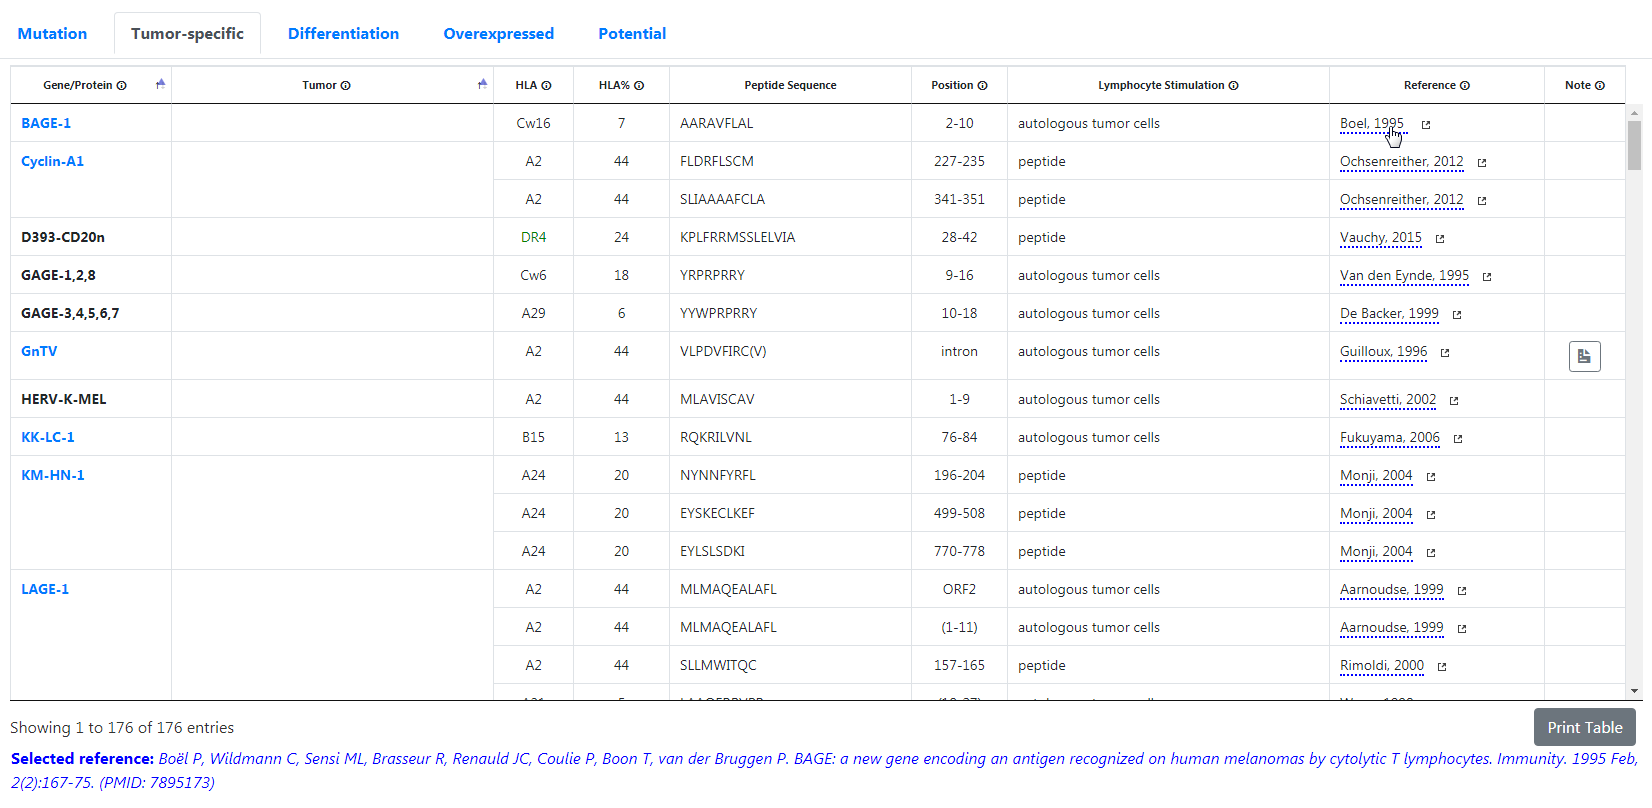
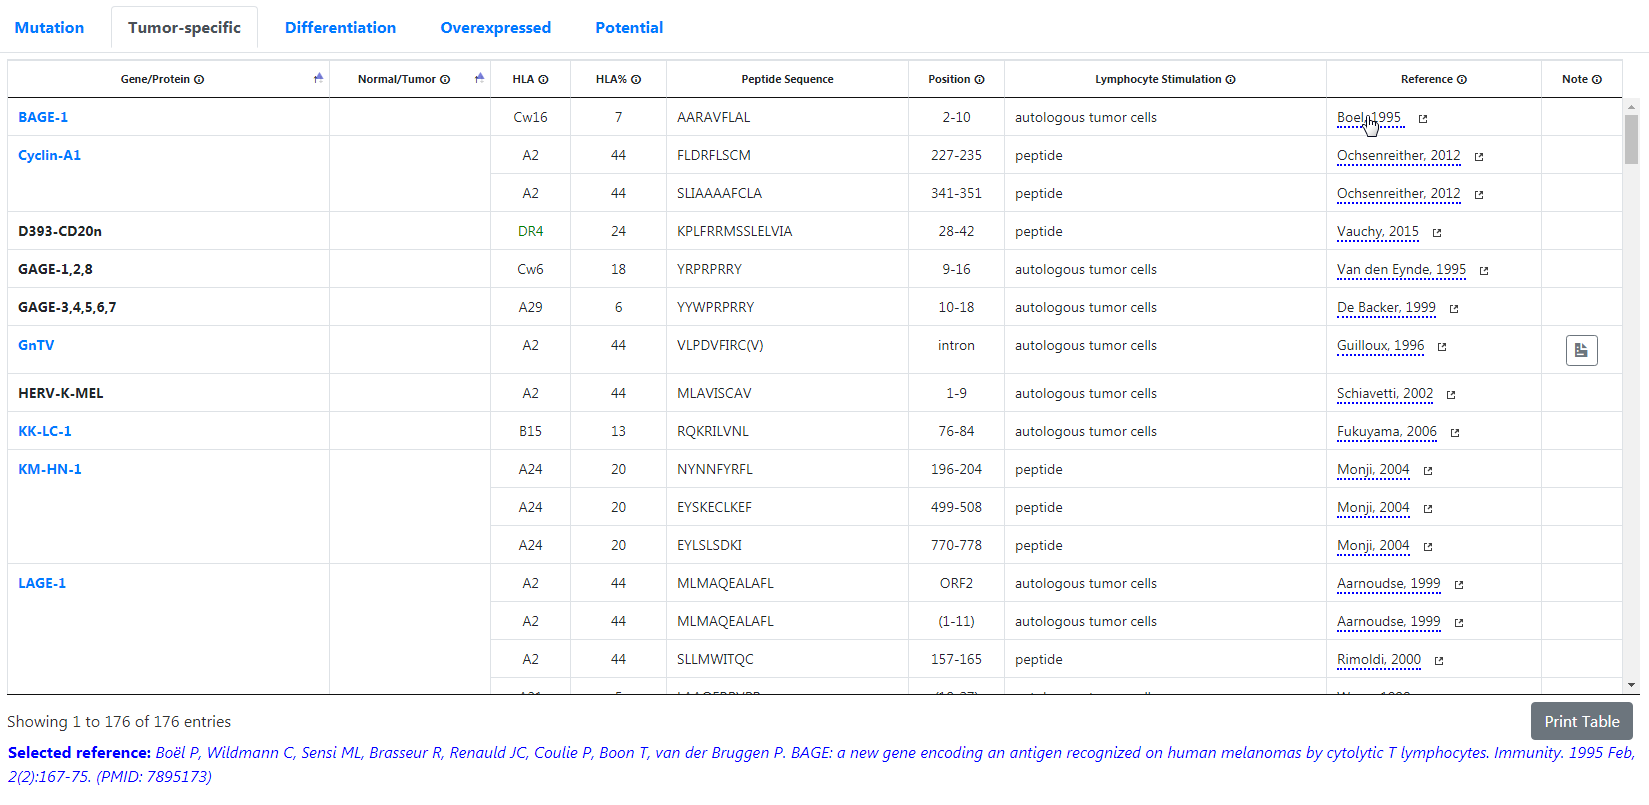
-Pic correction -typos -thicker colored bar -reorganized style sheet

diff --git a/assets/styles/style.css b/assets/styles/style.css
@@ -1,51 +1,32 @@
+/*
+Styles for general elements/layout.
+ */
+
+.nav-item {
+  padding:5px;
+}
+
+.nav_page {
+  font-weight: bold;
+}
+
+.nav_page.active {
+  color:#E53C29 !important;
+  pointer-events: none;
+  cursor: default;
+}
+
+.nav_page:hover:not(.active) {
+  text-decoration: underline;
+
+}
+
 .back-to-top {
   cursor: pointer;
   position: fixed;
   bottom: 20px;
   right: 20px;
   display:none;
-}
-
-.hla_filter {
-  width: 40px !important;
-}
-
-
-.freq_filter {
-  width: 20px !important;
-}
-
-.pos_filter {
-  width: 60px !important;
-}
-
-.range {
-  width: 20px !important;
-}
-
-.com_filter {
-  width: 40px !important;
-}
-
-
-.comment-cell {
-  text-align: center;
-}
-
-#generalTable {
-  position: relative;
-}
-
-#navbar-tables {
-  padding: 10px 16px;
-}
-
-.nav-item {
-  padding:5px;
-}
-
-#table-container {
-  position: relative;
 }
 
 #return-to-top {
@@ -95,59 +76,17 @@ u {
   cursor: pointer;
 }
 
-th {
-  font-size: 11px;
-  text-align: center;
-
-}
-table.dataTable tbody td {
-  vertical-align: top !important;
-}
-
-td {
-  font-size: 14px;
-  border-color: black;
-}
-
 .btn-default-outline {
   border-color: #ccc;
-}
-
-.borderless td, .borderless th {
-  border: thick;
-}
-
-#seq_table th {
-  text-align: center;
-  padding:0;
-  margin:0;
-}
-
-.nav_page {
-  font-weight: bold;
-}
-
-.nav_page.active {
-  color:#E53C29 !important;
-  pointer-events: none;
-  cursor: default;
-}
-
-.nav_page:hover:not(.active) {
-  text-decoration: underline;
-
-}
-
-.main_content{
-  margin-bottom: 100px;
 }
 
 .navbar{
   border-color: black;
 }
 
-.center_td {
-  text-align: center;
+
+.main_content{
+  margin-bottom: 100px;
 }
 
 .tooltip-inner {
@@ -180,19 +119,105 @@ td {
   display:inline-block;
 }
 
-#submit_comment {
-  width: 600px;
-  height: 300px;
-  padding-left:0;
-  padding-top:0;
-  padding-bottom:0.4em;
-  padding-right: 0.4em;
+.fb_iframe_widget {
+  position: relative;
+  top: -4px !important;
 }
+
+
+
+/*
+Styles for elements of tables
+ */
+
+#navbar-tables {
+  padding: 10px 16px;
+}
+
+#table-container {
+  position: relative;
+}
+
+th {
+  font-size: 11px;
+  text-align: center;
+}
+
+#seq_table th {
+  text-align: center;
+  padding:0;
+  margin:0;
+}
+
+
+table.dataTable tbody td {
+  vertical-align: top !important;
+}
+
+td {
+  font-size: 14px;
+  border-color: black;
+}
+
+.hla_filter {
+  width: 40px !important;
+}
+
+.freq_filter {
+  width: 20px !important;
+}
+
+.pos_filter {
+  width: 60px !important;
+}
+
+.range {
+  width: 20px !important;
+}
+
+.com_filter {
+  width: 40px !important;
+}
+
+td.border_mutation, tr.border_mutation{
+  border-left: 5px solid #DC3546 !important;
+}
+
+td.border_tumor, tr.border_tumor{
+  border-left: 5px solid #FEC107 !important;
+}
+
+td.border_diff, tr.border_diff{
+  border-left: 5px solid #27A844 !important;
+}
+
+td.border_over, tr.border_over{
+  border-left: 5px solid #007AFF !important;
+}
+
+.comment-cell {
+  text-align: center;
+}
+
+.borderless td, .borderless th {
+  border: thick;
+}
+
+
+.center_td {
+  text-align: center;
+}
+
+/*
+Style for details page
+ */
 
 .imgbox {
   display: grid;
   height: 100%;
 }
+
+
 .center-fit {
   max-width: 100%;
   max-height: 80vh;
@@ -204,30 +229,32 @@ td {
   margin: auto;
 }
 
+#close_detail {
+  margin-right: 20px;
+}
+
+
+/*
+Style for submit page
+ */
+
+
+#submit_comment {
+  width: 600px;
+  height: 300px;
+  padding-left:0;
+  padding-top:0;
+  padding-bottom:0.4em;
+  padding-right: 0.4em;
+}
+
 #homepage_block {
   margin-top: 300px;
 }
 
-td.border_mutation, tr.border_mutation{
-  border-left: 2px solid #DC3546 !important;
-}
-
-td.border_tumor, tr.border_tumor{
-  border-left: 2px solid #FEC107 !important;
-}
-
-td.border_diff, tr.border_diff{
-  border-left: 2px solid #27A844 !important;
-}
-
-td.border_over, tr.border_over{
-  border-left: 2px solid #007AFF !important;
-}
-
-.fb_iframe_widget {
-  position: relative;
-  top: -4px !important;
-}
+/*
+Style for about page
+ */
 
 #about {
 
@@ -236,9 +263,9 @@ td.border_over, tr.border_over{
   max-width:1000px;
 }
 
-#close_detail {
-  margin-right: 20px;
-}
+/*
+Style for help page
+ */
 
 .post-container {
   margin-left:auto;
@@ -262,6 +289,4 @@ td.border_over, tr.border_over{
   font-size: 200%
 }
 
-.buttons-print {
-  float: right !important;
-}
+
